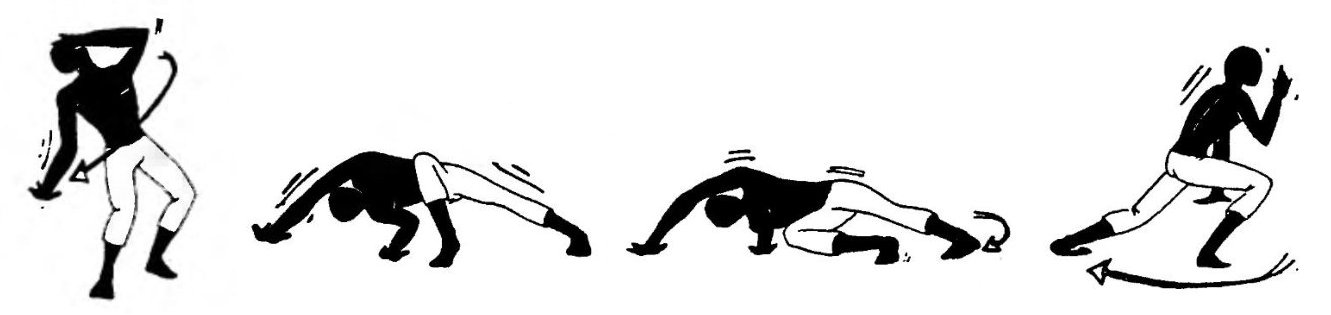
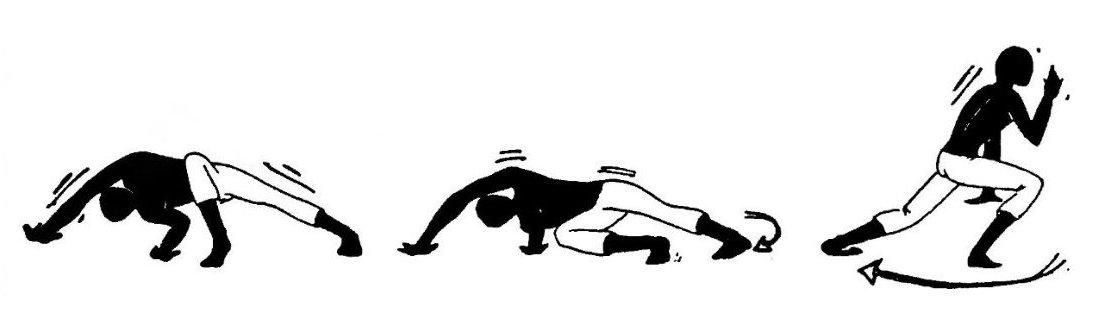
engolo rasteira

Changed region(s): [[0.0, 0.0571, 0.9873, 0.9714]]

diff --git a/moves/rasteira.html b/moves/rasteira.html
@@ -11,14 +11,15 @@
   </h3>
 
   <img title="Animation by unknowncapoeira.com" src="../images/gif/Rasteira-do-Chao.gif">
-  <img src="../images/nestor/rasteira.jpg" title="Drawing from The Little Capoeira Book, by Nestor Capoeira">
+  <!-- <img src="../images/nestor/rasteira.jpg" title="Drawing from The Little Capoeira Book, by Nestor Capoeira"> -->
 
   <img title="Painting by Alexandre Guillaume (et-si.net)" src="../images/alex/Capoeira-illustration-0798.jpg">
 
   <h2>Gallery</h2>
 
   <div class="gallery">
-    <a href="../images/zuma/encruzilhada.jpg"><img src="../images/zuma/encruzilhada.jpg" title="Anníbal Burlamaqui Zuma, Gymnástica Nacional (capoeiragem), 1928."></a>
+    <a href="../images/ngolo/rasteira.jpg"><img src="../images/ngolo/rasteira.jpg" title="N'golo dance, drawing by Neves e Sousa (1955-1956)"></a>
+    <!-- <a href="../images/zuma/encruzilhada.jpg"><img src="../images/zuma/encruzilhada.jpg" title="Anníbal Burlamaqui Zuma, Gymnástica Nacional (capoeiragem), 1928."></a> -->
     <a href="../images/alex/encre_0285.jpg"><img title="Painting by Alexandre Guillaume (et-si.net)" src="../images/alex/encre_0285.jpg"></a>
   </div>
 

diff --git a/ngolo/rasteira.html b/ngolo/rasteira.html
@@ -8,14 +8,7 @@
 <body>
   <h1>Rasteira <i>sweep</i></h1>
 
-  <img src="../images/ngolo/chapa-e-rasteira.jpeg" title="N'golo dance, drawing by Neves e Sousa (1955-1956)">
-
-  <h2>Gallery</h2>
-
-  <div class="gallery">
-    <a href="../images/ngolo/chapa-e-rasteira.jpg"><img src="../images/ngolo/chapa-e-rasteira.jpg" title="N'golo dance, drawing by Neves e Sousa (1955-1956)"></a>
-    <a href="../images/ngolo/chapa-e-rasteira.jpeg"><img src="../images/ngolo/chapa-e-rasteira.jpeg" title="N'golo dance, drawing by Neves e Sousa (1955-1956)"></a>
-  </div>
+  <img src="../images/ngolo/rasteira.jpg" title="N'golo dance, drawing by Neves e Sousa (1955-1956)">
 
   <h2>Tutorials</h2>
 

diff --git a/ngolo/rasteira-de-costas.html b/ngolo/rasteira-de-costas.html
@@ -1,0 +1,22 @@
+<html>
+
+<head>
+  <title>Rasteira de costas (back sweep)</title>
+  <link rel="stylesheet" href="../css/iframe.css">
+</head>
+
+<body>
+  <h1>Rasteira de costas <i>back sweep</i></h1>
+
+  <img src="../images/ngolo/chapa-e-rasteira.jpeg" title="N'golo dance, drawing by Neves e Sousa (1955-1956)">
+
+  <h2>Gallery</h2>
+
+  <div class="gallery">
+    <a href="../images/ngolo/chapa-e-rasteira.jpg"><img src="../images/ngolo/chapa-e-rasteira.jpg" title="N'golo dance, drawing by Neves e Sousa (1955-1956)"></a>
+  </div>
+
+  <script src="../iframe.js"></script>
+</body>
+
+</html>

diff --git a/ngolo.html b/ngolo.html
@@ -64,6 +64,7 @@
       <h2>Takedowns</h2>
 
       <a href="ngolo/rasteira.html" target="frame">Rasteira <i>sweep</i></a>
+      <a href="ngolo/rasteira-de-costas.html" target="frame">Rasteira de costas <i>back sweep</i></a>
       <a href="ngolo/rasteira-em-pe.html" target="frame">Rasteira em pé <i>standing sweep</i></a>
       <a href="ngolo/banda.html" target="frame">Banda <i>band</i></a>
 

diff --git a/README.md b/README.md
@@ -4,6 +4,6 @@ List of capoeira moves with pictures, their names and video tutorials.
 
 ## TODO
 
-- identifikovati ngolo/low-defense.jpg
+- js trese stranicu kad sam na dnu, isključiti scroll up
 
 Au de frente and Au reversao are not the same thing (both listed under au de frente). Technically, the difference is that you "just" land on another leg. But that in itself is a pretty big difference in practice. Also reversao can be done very much sideways, like this https://youtu.be/uik2yUCOgY0?feature=shared
